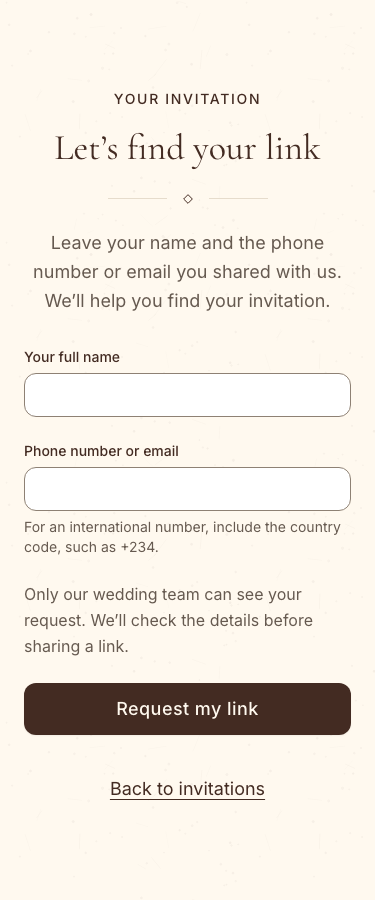
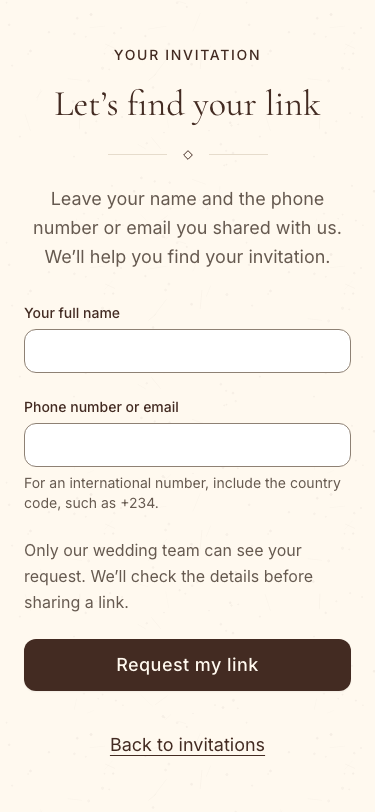
TICKET-253: centre staff and recovery panels and tighten sign-in spacing

diff --git a/src/modules/shared/components/staff-sign-in.tsx b/src/modules/shared/components/staff-sign-in.tsx
@@ -26,7 +26,7 @@ export function StaffSignIn({ role, preview = false }: { role: StaffRole; previe
       aria-label="Staff sign-in"
     >
       <input type="hidden" name="role" value={role} />
-      <div className="[&_input]:text-2xl [&_label]:text-lg">
+      <div className="flex flex-col gap-2 [&_input]:text-2xl [&_label]:text-lg">
         <Input
           label="Your six-digit PIN"
           name="pin"
@@ -40,17 +40,18 @@ export function StaffSignIn({ role, preview = false }: { role: StaffRole; previe
           className="min-h-14 text-2xl tracking-widest"
           aria-describedby={statusId}
         />
+        <p
+          id={statusId}
+          role={pending || state.status !== "idle" ? "status" : undefined}
+          aria-live="polite"
+          // Two lines reserved so most messages appear without moving the button.
+          className="min-h-14 text-lg leading-relaxed text-muted-foreground"
+        >
+          {pending
+            ? "Checking your PIN…"
+            : state.message || "Use the PIN your team lead shared with you."}
+        </p>
       </div>
-      <p
-        id={statusId}
-        role={pending || state.status !== "idle" ? "status" : undefined}
-        aria-live="polite"
-        className="min-h-24 text-lg leading-relaxed text-muted-foreground"
-      >
-        {pending
-          ? "Checking your PIN…"
-          : state.message || "Use the PIN your team lead shared with you."}
-      </p>
       <Button type="submit" size="lg" fullWidth disabled={pending} aria-busy={pending}>
         {pending ? "Signing in…" : "Sign in"}
       </Button>

diff --git a/e2e/staff-journeys.spec.ts b/e2e/staff-journeys.spec.ts
@@ -28,11 +28,14 @@ for (const theme of listThemes())
           (await new AxeBuilder({ page }).withTags(["wcag2a", "wcag2aa", "wcag21aa"]).analyze())
             .violations,
         ).toEqual([]);
-        expect(
-          await page
-            .getByRole("heading", { level: 1 })
-            .evaluate((node) => parseFloat(getComputedStyle(node).fontSize)),
-        ).toBeGreaterThanOrEqual(32);
+        // Polled: the heading can be replaced while the station's client view settles.
+        await expect
+          .poll(() =>
+            page
+              .getByRole("heading", { level: 1 })
+              .evaluate((node) => parseFloat(getComputedStyle(node).fontSize)),
+          )
+          .toBeGreaterThanOrEqual(32);
         const sizes = await page
           .locator("main p, main a, header a, header p")
           .evaluateAll((nodes) => nodes.map((node) => parseFloat(getComputedStyle(node).fontSize)));
@@ -46,7 +49,9 @@ for (const theme of listThemes())
         expect(targets.every((box) => box.width >= 44 && box.height >= 44)).toBe(true);
         if (capture)
           await page.screenshot({ path: `${dir}/${route.path.slice(1)}.png`, fullPage: true });
-        await page.getByRole("banner").getByRole("link", { name: "Staff home" }).focus();
+        if (route.path === appRoutes.staff.path) continue;
+        // Single-panel station pages carry their way back in the panel footer.
+        await page.getByRole("link", { name: "Staff home" }).focus();
         await page.keyboard.press("Enter");
         await expect(page).toHaveURL(/\/staff$/);
       }

diff --git a/src/modules/checkin/components/recovery-export.tsx b/src/modules/checkin/components/recovery-export.tsx
@@ -54,10 +54,10 @@ export function RecoveryExport() {
         This does not sign you in or admit anyone. Export the records, then give the file to your
         administrator through your agreed private channel.
       </p>
-      <Button size="lg" disabled={busy} onClick={() => void save()}>
+      <Button size="lg" fullWidth disabled={busy} onClick={() => void save()}>
         Save recovery file
       </Button>
-      <div className="space-y-2">
+      <div className="space-y-2 border-t border-border pt-6">
         <label htmlFor="recovery-receipt" className="block font-semibold">
           Administrator’s receipt
         </label>
@@ -70,17 +70,17 @@ export function RecoveryExport() {
           type="file"
           accept=".txt,text/plain"
           disabled={busy}
-          className="min-h-11 w-full max-w-full"
+          className="min-h-11 w-full max-w-full file:mr-4 file:min-h-11 file:cursor-pointer file:rounded-md file:border file:border-border file:bg-background file:px-4 file:font-medium file:text-foreground"
           onChange={(event) => {
             void receipt(event.target.files?.[0]);
             event.target.value = "";
           }}
         />
       </div>
-      <p role="status" aria-live="polite">
+      <p role="status" aria-live="polite" className="empty:hidden">
         {message}
       </p>
-      <p>
+      <p className="text-muted-foreground">
         Do not clear site data or remove this browser profile while records remain. A deleted copy
         cannot be recovered here.
       </p>

diff --git a/src/modules/shared/components/ui/centered-panel.tsx b/src/modules/shared/components/ui/centered-panel.tsx
@@ -33,17 +33,23 @@ export function CenteredPanel({
   return (
     <main
       className={cn(
-        "flex w-full flex-1 flex-col items-center justify-center px-6 py-12 pb-[max(3rem,env(safe-area-inset-bottom))] sm:py-16",
+        "flex w-full flex-1 flex-col items-center justify-center px-6 py-10 pb-[max(2.5rem,env(safe-area-inset-bottom))] sm:py-10",
         className,
       )}
     >
       <div
         data-centered-panel
-        className="w-full max-w-md sm:rounded-lg sm:border sm:border-border sm:bg-surface sm:px-10 sm:py-12"
+        className="w-full max-w-md sm:rounded-lg sm:border sm:border-border sm:bg-surface sm:px-10 sm:py-10"
       >
         <header className="flex flex-col items-center text-center">
           {eyebrow ? (
-            <p className="text-sm font-medium tracking-[0.12em] text-primary uppercase">
+            <p
+              className={cn(
+                "font-medium tracking-[0.12em] text-primary uppercase",
+                // Staff screens keep every line at 18px or more for arm's-length reading.
+                variant === "staff" ? "text-lg" : "text-sm",
+              )}
+            >
               {eyebrow}
             </p>
           ) : null}

diff --git a/src/app/(staff)/layout.tsx b/src/app/(staff)/layout.tsx
@@ -5,11 +5,14 @@ import { IosInstallGuide } from "@/modules/shared/components/ios-install-guide";
 /** Layout for staff pages (gate check-in, kitchen and bar boards). Auth guard goes here. */
 export default function StaffLayout({ children }: LayoutProps<"/">) {
   return (
-    <div className="flex min-h-dvh flex-col bg-surface-muted">
+    <div className="group/staff flex min-h-dvh flex-col bg-surface-muted">
       <StaffHeader />
       {children}
-      <InstallPrompt />
-      <IosInstallGuide />
+      {/* Boards reserve the install rows to avoid shifts; centred panels drop empty rows so they sit mid-screen. */}
+      <div className="group-has-[[data-centered-panel]]/staff:[&>div:empty]:hidden">
+        <InstallPrompt />
+        <IosInstallGuide />
+      </div>
     </div>
   );
 }

diff --git a/src/modules/shared/components/staff-header.tsx b/src/modules/shared/components/staff-header.tsx
@@ -7,7 +7,7 @@ export function StaffHeader() {
   const path = usePathname();
   const station = routeList.find((route) => route.path === path && route.audience === "staff");
   return (
-    <header className="mx-auto grid w-full max-w-3xl grid-cols-2 items-center gap-6 px-6 py-6 text-lg leading-relaxed">
+    <header className="mx-auto grid w-full max-w-3xl grid-cols-2 items-center gap-6 px-6 py-6 text-lg leading-relaxed group-has-[[data-centered-panel]]/staff:hidden">
       <Link
         href={appRoutes.staff.path}
         className="inline-flex min-h-11 items-center text-primary underline underline-offset-4"

diff --git a/src/modules/invitations/components/lost-link-form.tsx b/src/modules/invitations/components/lost-link-form.tsx
@@ -46,7 +46,7 @@ export function LostLinkForm() {
           </Button>
         </form>
       )}
-      <div role="status" className="mt-6 text-center text-lg leading-relaxed">
+      <div role="status" className="mt-6 text-center text-lg leading-relaxed empty:hidden">
         {result?.message}
       </div>
     </CenteredPanel>
